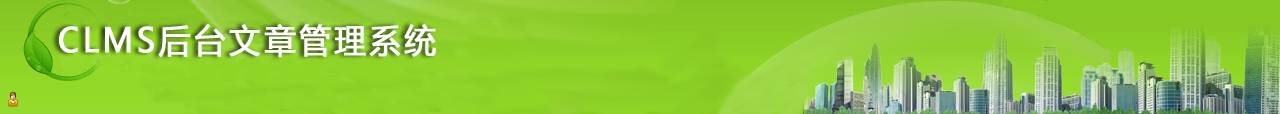
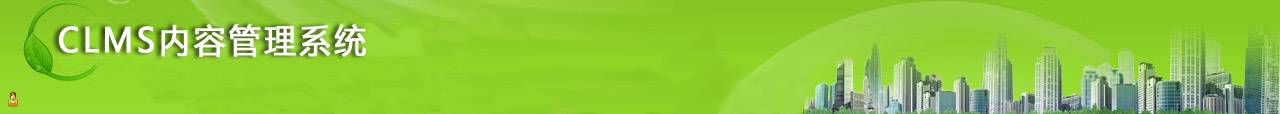
logout

Changed region(s): [[0.125, 0.2105, 0.3438, 0.5263]]

diff --git a/cl_admin/css/base.css b/cl_admin/css/base.css
@@ -1,20 +1,31 @@
 div,body,h1,h2,h3,h4,h5,img,p,ul{margin: 0;padding:0}
 img{display: inline-block;}
 a{text-decoration: none;}
+a:hover{border-bottom: 1px solid #fff;}
 li{list-style: none;}
+
+.clearfix:after{content:".";display:block;height:0;clear:both;visibility:hidden;}
+.clearfix{display:inline-table;}/* Hides from IE-mac \*/
+*html .clearfix{height:1%;}
+.clearfix{display:block;}/* End hide from IE-mac */
+*+html .clearfix{min-height:1%;}
+.clear{clear:both;}
 
 .in{display: block;}
 .hide{display: none;}
 .op7{filter:alpha(opacity=70);-moz-opacity: 0.7;opacity: 0.7;}
 .op6{filter:alpha(opacity=60);-moz-opacity: 0.6;opacity: 0.6;}
 .op5{filter:alpha(opacity=50);-moz-opacity: 0.5;opacity: 0.5;}
+.lifl li,.left{float: left;}
 label{cursor: pointer;}
 body{background: #91d726;}
 
+/*头部*/
 .header{height: 114px;width: 1280px;background: url(../images/headerbg.jpg) no-repeat;margin: 0 auto;border-bottom: 4px solid #4f6f0c;}
 .toolbar{float: right;height: 24px;border-bottom: 1px solid #325103;background: #5a9004;}
-.toolbar li{float: left;padding: 0 12px;background: url(../images/tb_li_bg.gif) no-repeat right top;}
+.toolbar li{padding: 0 12px;background: url(../images/tb_li_bg.gif) no-repeat right top;}
 .header i{background: url(../images/toolbar_bg.png) no-repeat;width: 24px;height: 24px;display: block;float: right;}
 .toolbar li.nobg{background: none;}
 .toolbar li img{vertical-align: middle;padding-right: 5px;}
 .toolbar li a{font:12px/24px '宋体';color: #fff;}
+/*.toolbar li a:hover{border-bottom-color: #fff;}*/

diff --git a/cl_admin/deal.php b/cl_admin/deal.php
@@ -11,7 +11,7 @@ include "{$root}/inc/func/common.func.php";
 include "{$root}/config/conn.php";
 
 $act = isset($_GET['act']) ? $_GET['act'] : '';
-if (empty($act) || $_SERVER['HTTP_X_REQUESTED_WITH'] != 'XMLHttpRequest') exit();
+empty($act) && exit();
 
 switch ($act) {
 	case 'login' :
@@ -26,9 +26,17 @@ switch ($act) {
 			'logintime' => time()), "uname='{$uname}'") or exit('-2');
 		if ($rem == 'true') {
 			setcookie(session_name(), session_id(), time() + 180 * 86400, '/');
+			$_SESSION['rem'] = 1;
 		}
 		$_SESSION['uname'] = $uname;
 		$_SESSION['limit'] = $ret;
 		exit('1');
+	break;
+	case 'logout' :
+		if(isset($_SESSION['rem'])) setcookie(session_name(), session_id(), time() - 3600, '/');
+		session_unset();
+		session_destroy();
+		header('location:login.php');
+		exit();
 	break;
 }

diff --git a/cl_admin/login.php b/cl_admin/login.php
@@ -13,7 +13,7 @@ if (isset($_SESSION['limit'])){
 	<link rel="stylesheet" href="css/base.css" />
 	<link rel="stylesheet" href="css/login.css" />
 	<link rel="stylesheet" href="css/ev01.css" />
-	<title>您好，欢迎登陆clms后台管理系统！</title>
+	<title>您好，欢迎登陆clms内容管理系统！</title>
 </head>
 <body>
 	<div id="bg">
@@ -71,8 +71,9 @@ if (isset($_SESSION['limit'])){
 			return;
 		}
 		loading.removeClass('hide');
+		o_msg.html('');
 		$.ajax({
-			url:'ajax.php?act=login',
+			url:'deal.php?act=login',
 			timeout:5000,
 			type:'post',
 			data:{uname:uname,pwd:pwd,rem:$("#rem")[0].checked},

diff --git a/cl_admin/index.php b/cl_admin/index.php
@@ -11,12 +11,16 @@ include_once 'check.php';
 </head>
 <body>
 	<div class="header">
-		<ul class="toolbar">
+		<ul class="toolbar lifl">
 			<li><img src="images/icon_pwd.gif" width="17" height="17" alt="" /><a href="">修改密码</a></li>
-			<li><a href="">公告</a></li>
+			<li><a href="deal.php?act=logout">安全退出</a></li>
 			<li class="nobg"><img src="images/icon_help.gif" width="16" height="16" alt="" /><a href="">帮助</a></li>
 		</ul>
 		<i></i>
+	</div>
+
+	<div class="left clear">
+		
 	</div>
 </body>
 </html>

diff --git a/inc/class/User.class.php b/inc/class/User.class.php
@@ -10,11 +10,11 @@ class User {
 	
 	/**
 	 * 登陆验证
-	 * @return 0:账号密码错,权限
+	 * @return 0:账号密码错|权限
 	 */
 	function checklogin() {
 		global $db,$pre;
-		$row = $db->getOneAssoc("admin a join `{$pre}group` b on a.gid = b.id", "uname = '{$this->uname}'", 'pwd,limit');
+		$row = $db->getOneAssoc("{$pre}admin a join `{$pre}group` b on a.gid = b.id", "uname = '{$this->uname}'", 'pwd,limit');
 		if (empty($row) || $this->getpwd($this->pwd) !== $row['pwd']) return 0;
 		return $row['limit'];
 	}

diff --git a/inc/class/Mysql.class.php b/inc/class/Mysql.class.php
@@ -142,7 +142,7 @@ class Mysql {
 				} elseif (strpos($v, '--') > 0) {
 					$v = "`{$k}`-" . strtr($v, '--', '  ');
 				} else {
-					$v = "'" . mysqli_real_escape_string($v, $this->link_id) . "'";
+					$v = "'" . mysqli_real_escape_string($this->link_id, $v) . "'";
 				}
 			}
 			$set[] = "`{$k}`=" . $v;
